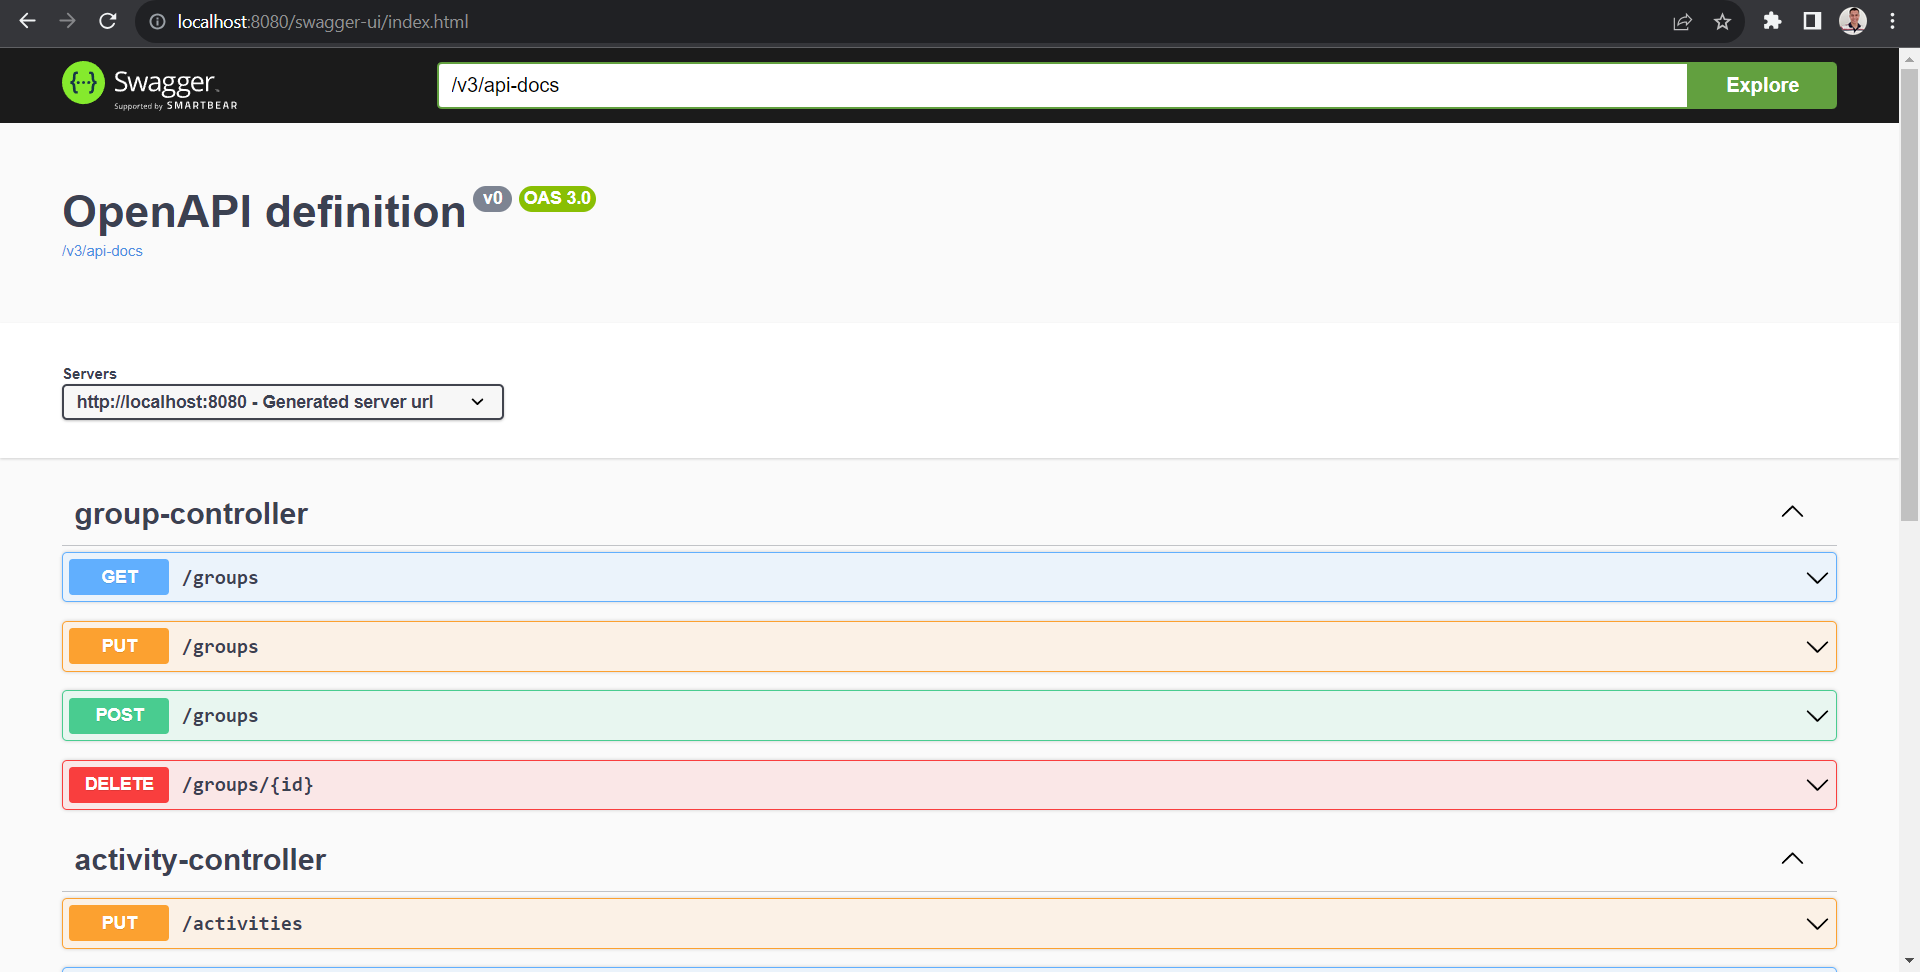
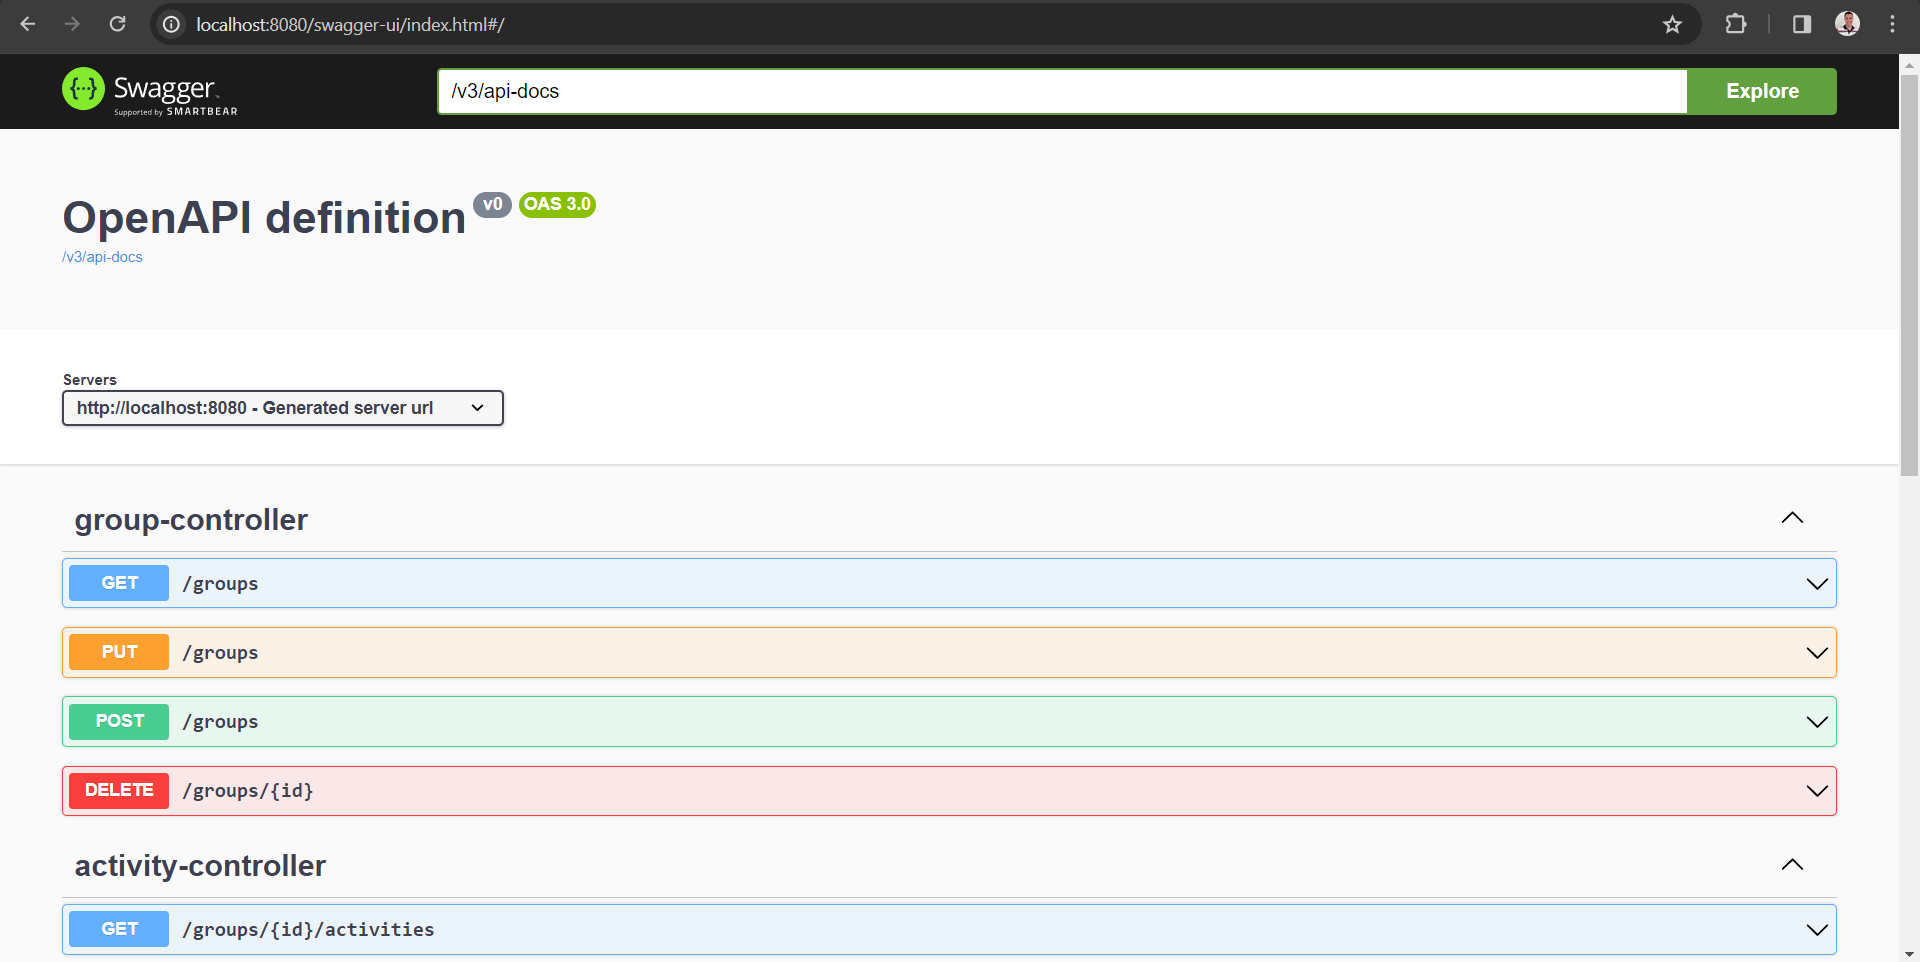
backend of kanban system concluded

diff --git a/src/main/java/com/api/kanbanback/services/ActivityService.java b/src/main/java/com/api/kanbanback/services/ActivityService.java
@@ -20,15 +20,43 @@ public class ActivityService {
     public List<Activity> getAllActivitiesByGroup(Long id) {
         return activityRepository.findByGroupId(id);
     }
-    public Activity save(Long groupId, Activity activityRequest) {
-        Activity activity = groupRepository.findById(groupId).map(group -> {
-            activityRequest.setGroup(group);
-            return activityRepository.save(activityRequest);
-        }).get();
 
-        return activity;
+    public List<Activity> getActivitiesByTitle(String title) {
+        return activityRepository.findByTitleStartsWithIgnoreCase(title);
     }
-    public void update(Activity activity) {
+
+    public Long getNumberOfLateActivities() {
+        return activityRepository.countByStatus("late");
+    }
+
+    public Activity save(Long groupId, Activity activity) {
+        return groupRepository.findById(groupId).map(group -> {
+            int activitiesNum = activityRepository.findByGroupId(groupId).size();
+            Integer wip = group.getWorkInProgress();
+
+            if(wip - activitiesNum == 0) {
+                throw new ResponseStatusException(HttpStatus.BAD_REQUEST, "Wip limit is " + wip + "!");
+            }
+
+            activity.setGroup(group);
+            return activityRepository.save(activity);
+        }).get();
+    }
+    public void update(Long groupId, Activity activity) {
+        List<Activity> activities = activityRepository.findByGroupId(groupId);
+
+        Integer activitiesNum = activities.size();
+
+        Group group = groupRepository.findById(groupId).get();
+        Integer wip = group.getWorkInProgress();
+
+        if(wip - activitiesNum == 0 && activities.stream()
+                .noneMatch((activityExistent) -> activityExistent.getId().equals(activity.getId()))) {
+            throw new ResponseStatusException(HttpStatus.BAD_REQUEST, "Wip limit is " + wip + "!");
+        }
+
+        activity.setGroup(group);
+
         activityRepository.save(activity);
     }
     public void delete(Long id) {

diff --git a/src/main/java/com/api/kanbanback/controllers/ActivityController.java b/src/main/java/com/api/kanbanback/controllers/ActivityController.java
@@ -14,20 +14,26 @@ import java.util.List;
 @RequestMapping
 public class ActivityController {
     private ActivityService activityService;
-
     @GetMapping("/groups/{id}/activities")
     public ResponseEntity<List<Activity>> getAllByGroup(@PathVariable Long id) {
         return ResponseEntity.ok(activityService.getAllActivitiesByGroup(id));
     }
-
+    @GetMapping("/activities/filter")
+    public ResponseEntity<List<Activity>> getByTitle(@RequestParam String title) {
+        return ResponseEntity.ok(activityService.getActivitiesByTitle(title));
+    }
+    @GetMapping("/activities/late")
+    public ResponseEntity<Long> getNumberOfLateActivities() {
+        return ResponseEntity.ok(activityService.getNumberOfLateActivities());
+    }
     @PostMapping("/groups/{id}/activities")
-    public ResponseEntity<Activity> save(@PathVariable Long id,@RequestBody Activity activity) {
+    public ResponseEntity<Activity> save(@PathVariable Long id, @RequestBody Activity activity) {
         return ResponseEntity.ok(activityService.save(id, activity));
     }
 
-    @PutMapping("/activities")
-    public ResponseEntity<Activity> update(@RequestBody Activity activity) {
-        activityService.update(activity);
+    @PutMapping("/groups/{id}/activities")
+    public ResponseEntity<Activity> update(@PathVariable Long id, @RequestBody Activity activity) {
+        activityService.update(id, activity);
         return new ResponseEntity<>(HttpStatus.NO_CONTENT);
     }
 

diff --git a/src/main/java/com/api/kanbanback/models/Activity.java b/src/main/java/com/api/kanbanback/models/Activity.java
@@ -1,13 +1,18 @@
 package com.api.kanbanback.models;
 
+import com.fasterxml.jackson.annotation.JsonFormat;
+import com.fasterxml.jackson.annotation.JsonIgnore;
+import com.fasterxml.jackson.annotation.JsonIgnoreProperties;
 import jakarta.persistence.*;
-import lombok.Data;
+import lombok.Getter;
+import lombok.Setter;
 import org.hibernate.annotations.OnDelete;
 import org.hibernate.annotations.OnDeleteAction;
 
 import java.time.LocalDate;
 
-@Data
+@Getter
+@Setter
 @Entity
 @Table(name = "activities")
 public class Activity {
@@ -21,10 +26,10 @@ public class Activity {
     @Column(nullable = false)
     private LocalDate deadline;
 
-    @Column(length = 9, nullable = false)
+    @Column(length = 11, nullable = false)
     private String status;
 
-    @ManyToOne
+    @ManyToOne(optional = false)
     @JoinColumn(name = "group_id", nullable = false)
     @OnDelete(action = OnDeleteAction.CASCADE)
     private Group group;

diff --git a/src/main/java/com/api/kanbanback/repositories/ActivityRepository.java b/src/main/java/com/api/kanbanback/repositories/ActivityRepository.java
@@ -1,7 +1,10 @@
 package com.api.kanbanback.repositories;
 
 import com.api.kanbanback.models.Activity;
+import jakarta.transaction.Transactional;
+import org.springframework.data.jpa.repository.EntityGraph;
 import org.springframework.data.jpa.repository.JpaRepository;
+import org.springframework.data.jpa.repository.Query;
 import org.springframework.stereotype.Repository;
 
 import java.util.List;
@@ -9,5 +12,8 @@ import java.util.List;
 @Repository
 public interface ActivityRepository extends JpaRepository<Activity, Long> {
     List<Activity> findByGroupId(Long id);
+    List<Activity> findByTitleStartsWithIgnoreCase(String title);
+    Long countByStatus(String status);
+    @Transactional
     void deleteByGroupId(Long id);
 }

diff --git a/src/main/java/com/api/kanbanback/configuration/WebConfig.java b/src/main/java/com/api/kanbanback/configuration/WebConfig.java
@@ -1,0 +1,17 @@
+package com.api.kanbanback.configuration;
+
+import org.springframework.context.annotation.Configuration;
+import org.springframework.web.servlet.config.annotation.CorsRegistry;
+import org.springframework.web.servlet.config.annotation.EnableWebMvc;
+import org.springframework.web.servlet.config.annotation.WebMvcConfigurer;
+@Configuration
+@EnableWebMvc
+public class WebConfig implements WebMvcConfigurer {
+    @Override
+    public void addCorsMappings(CorsRegistry registry) {
+        registry.addMapping("/**")
+                .allowedOrigins("*")
+                .allowedHeaders("*")
+                .allowedMethods("GET", "PUT", "POST", "PATCH", "DELETE", "OPTIONS");
+    }
+}

diff --git a/src/main/java/com/api/kanbanback/models/Group.java b/src/main/java/com/api/kanbanback/models/Group.java
@@ -1,12 +1,11 @@
 package com.api.kanbanback.models;
 
 import jakarta.persistence.*;
-import lombok.Data;
+import lombok.Getter;
+import lombok.Setter;
 
-import java.util.HashSet;
-import java.util.Set;
-
-@Data
+@Getter
+@Setter
 @Entity
 @Table(name = "groups")
 public class Group {
@@ -16,4 +15,7 @@ public class Group {
 
     @Column(nullable = false)
     private String title;
+
+    @Column(nullable = false)
+    private Integer workInProgress;
 }

diff --git a/README.md b/README.md
@@ -12,6 +12,7 @@ Além disso, foi utilizado o banco de dados MySQL para o armazenamento de dados 
 ## Documentação dos endpoints pelo Swagger
 ![Swagger_1](https://github.com/pauloed99/kanban-back/blob/master/src/main/resources/static/readme/swagger-1.png)
 ![Swagger_2](https://github.com/pauloed99/kanban-back/blob/master/src/main/resources/static/readme/swagger-2.png)
+![Swagger_3](https://github.com/pauloed99/kanban-back/blob/master/src/main/resources/static/readme/swagger-3.png)
 
 # Tecnologias utilizadas
 - Java
